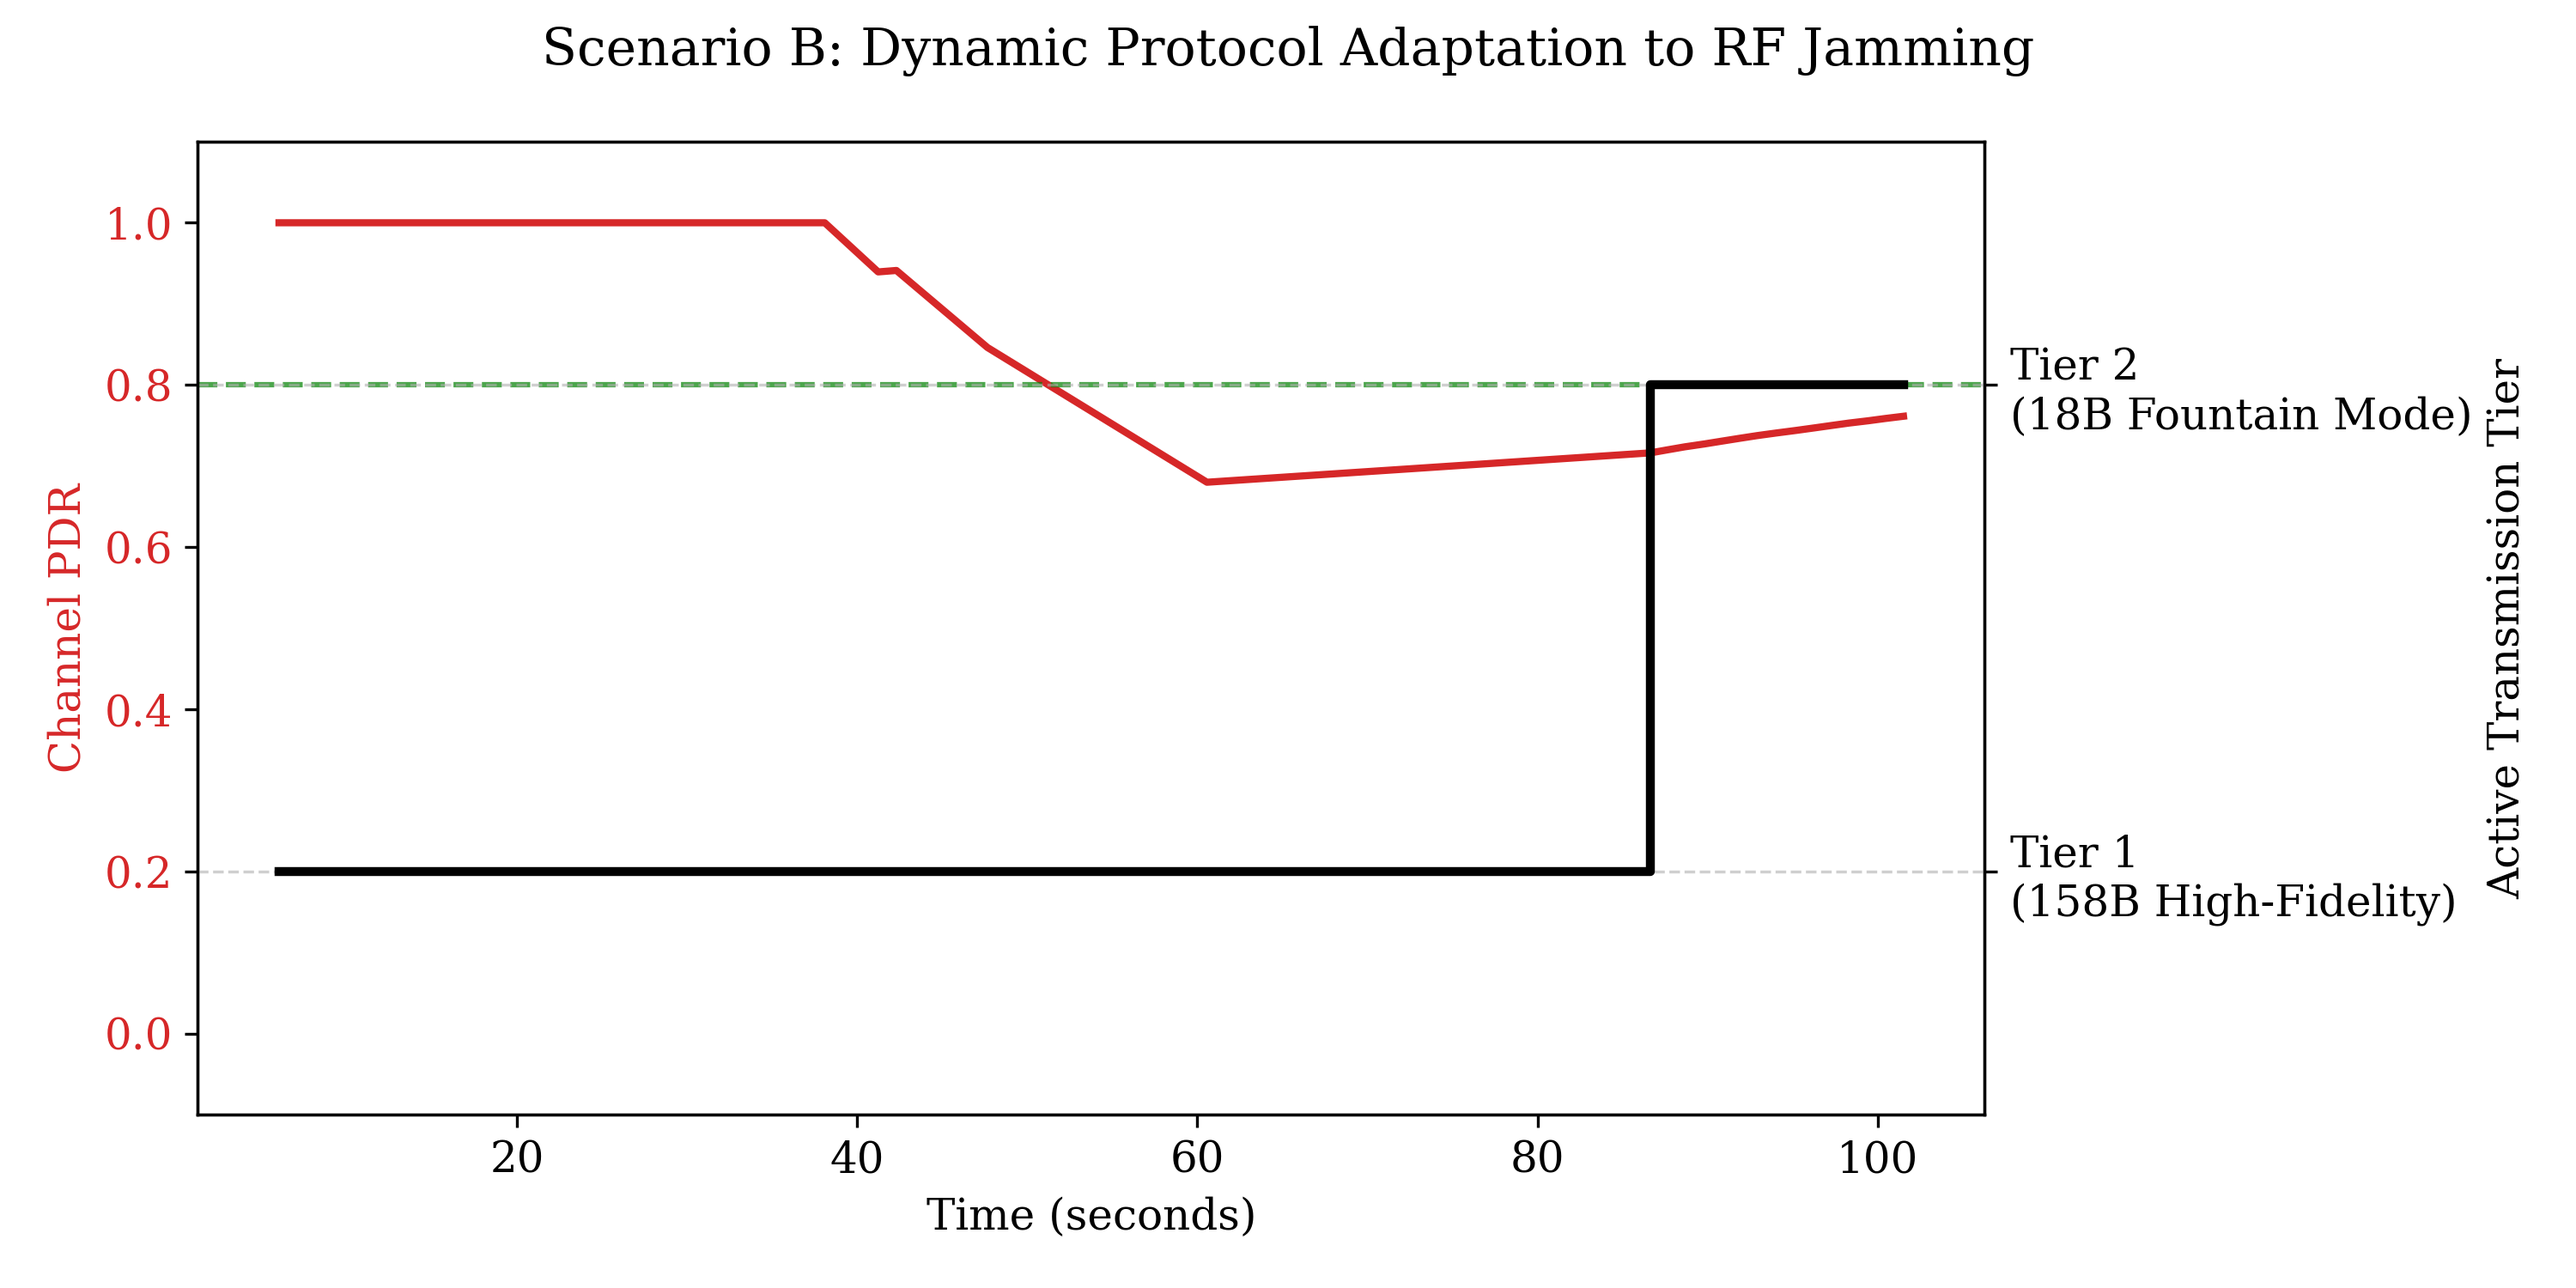
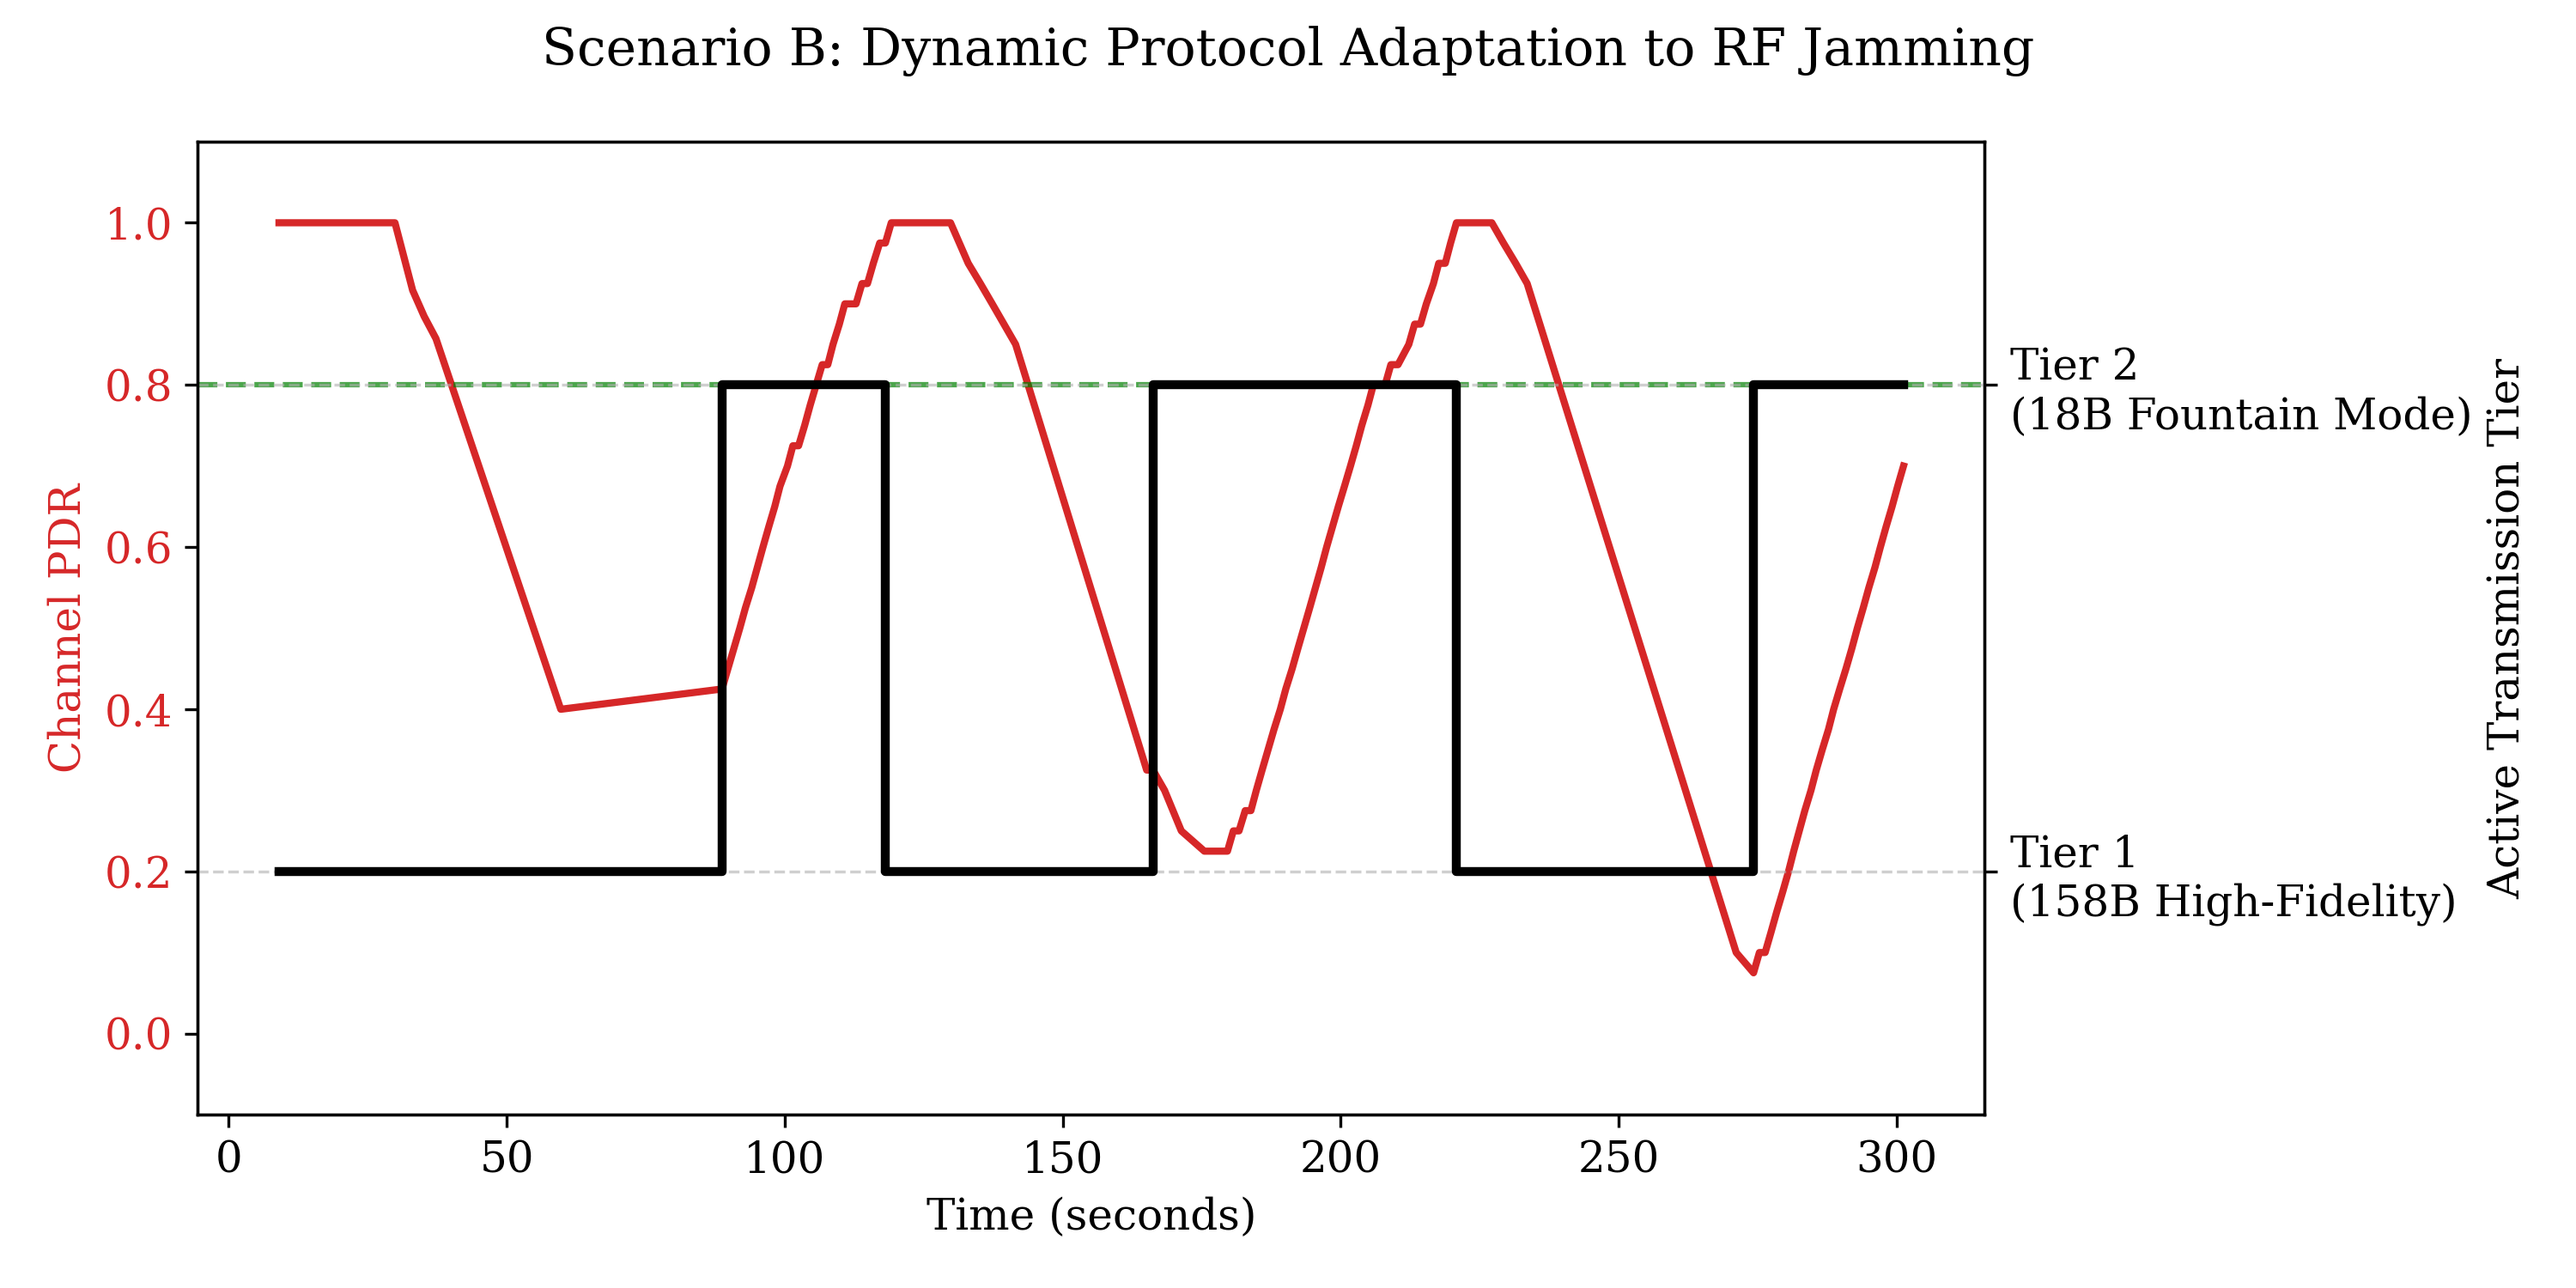
more realistic

diff --git a/anasta_sim.cc b/anasta_sim.cc
@@ -7,6 +7,7 @@
 #include <netinet/in.h>
 #include <unistd.h>
 #include <fcntl.h> 
+#include "ns3/waypoint-mobility-model.h"
 
 using namespace ns3;
 
@@ -108,24 +109,26 @@ private:
             uint8_t* buffer = new uint8_t[pSize];
             packet->CopyData(buffer, pSize);
 
+            // Fetch the base MobilityModel safely
             Ptr<MobilityModel> uavMob = m_uavNode->GetObject<MobilityModel>();
             Ptr<MobilityModel> jammerMob = m_jammerNode->GetObject<MobilityModel>();
             double distance = uavMob->GetDistanceFrom(jammerMob);
-
-            // Jammer activates only when UAV flies within 15 meters of the Base Station coordinate space
-            if (pSize > 14 && distance < 15.0) {
+	    if (pSize > 14 && distance < 30.0) {
+                double dropProbability = 100.0 * (1.0 - (distance / 30.0) * (distance / 30.0));
                 
-                if (rand() % 100 < 80) {
-                    std::cout << "[ns-3 Egest] 💥 JAMMER DESTROYED PACKET! Signal lost at " << distance << "m." << std::endl;
+                // 1. SIMULATE ERASURE
+                if ((rand() % 100) < dropProbability) {
+                    std::cout << "[ns-3] 💥 JAMMER DESTROYED PACKET! (Dist: " << distance << "m | Drop Prob: " << dropProbability << "%)" << std::endl;
                     delete[] buffer;
-                    continue; // Skip forwarding to the Python Twin
+                    continue; 
                 }
                 
+                // 2. SIMULATE CORRUPTION: Packet survived, but payload gets corrupted
                 uint32_t corruptIdx = 14 + (rand() % (pSize - 14));
                 buffer[corruptIdx] ^= 0xFF; 
-                std::cout << "[ns-3 Egest] ⚡ JAMMER CORRUPTED PACKET! Distance: " << distance << "m. Forwarding..." << std::endl;
+                std::cout << "[ns-3] ⚡ JAMMER CORRUPTED PACKET! Distance: " << distance << "m." << std::endl;
             } else {
-                std::cout << "[ns-3 Egest] ✅ Packet passed cleanly. Distance: " << distance << "m." << std::endl;
+                std::cout << "[ns-3] ✅ Packet passed cleanly. Distance: " << distance << "m." << std::endl;
             }
 
             sendto(m_hostSendTwinFd, buffer, pSize, 0, (struct sockaddr*)&m_twinAddr, sizeof(m_twinAddr));
@@ -152,8 +155,6 @@ int main(int argc, char *argv[]) {
     WifiHelper wifi;
     wifi.SetStandard(WIFI_STANDARD_80211n);
     
-    // FIX: Default helper already installs LogDistancePropagationLossModel.
-    // Do not chain AddPropagationLoss a second time to prevent double attenuation.
     YansWifiChannelHelper channel = YansWifiChannelHelper::Default();
     
     YansWifiPhyHelper phy;
@@ -163,23 +164,28 @@ int main(int argc, char *argv[]) {
     NetDeviceContainer devices = wifi.Install(phy, mac, nodes);
 
     MobilityHelper mobility;
-    mobility.SetMobilityModel("ns3::ConstantVelocityMobilityModel");
-    mobility.Install(nodes);
+    
+    // Set Base Station (Node 1) and Jammer (Node 2) to fixed positions at 50m
+    mobility.SetMobilityModel("ns3::ConstantPositionMobilityModel");
+    mobility.Install(nodes.Get(1));
+    mobility.Install(nodes.Get(2));
+    nodes.Get(1)->GetObject<MobilityModel>()->SetPosition(Vector(50.0, 0.0, 0.0));
+    nodes.Get(2)->GetObject<MobilityModel>()->SetPosition(Vector(50.0, 0.0, 0.0));
 
-    // UAV setup: Starts at 0m, flies forward smoothly at 1.0 m/s
-    Ptr<ConstantVelocityMobilityModel> uavMob = nodes.Get(0)->GetObject<ConstantVelocityMobilityModel>();
-    uavMob->SetPosition(Vector(0.0, 0.0, 0.0));
-    uavMob->SetVelocity(Vector(1.0, 0.0, 0.0)); 
+    // Set UAV (Node 0) to a Waypoint Patrol Path (Flies back and forth at 1 m/s)
+    MobilityHelper uavMobHelper;
+    uavMobHelper.SetMobilityModel("ns3::WaypointMobilityModel");
+    uavMobHelper.Install(nodes.Get(0));
+    Ptr<WaypointMobilityModel> uavMob = nodes.Get(0)->GetObject<WaypointMobilityModel>();
 
-    // Base Station setup: Positioned cleanly at 50m
-    Ptr<ConstantVelocityMobilityModel> bsMob = nodes.Get(1)->GetObject<ConstantVelocityMobilityModel>();
-    bsMob->SetPosition(Vector(50.0, 0.0, 0.0));
-    bsMob->SetVelocity(Vector(0.0, 0.0, 0.0));
-
-    // Jammer setup: Positioned at 50m (co-located next to the critical asset target)
-    Ptr<ConstantVelocityMobilityModel> jammerMob = nodes.Get(2)->GetObject<ConstantVelocityMobilityModel>();
-    jammerMob->SetPosition(Vector(50.0, 0.0, 0.0));
-    jammerMob->SetVelocity(Vector(0.0, 0.0, 0.0));
+    // Waypoint 1: Start at 0m (t=0s)
+    uavMob->AddWaypoint(Waypoint(Seconds(0.0), Vector(0.0, 0.0, 0.0)));
+    // Waypoint 2: Fly to 100m (Passes through Jammer at t=50s)
+    uavMob->AddWaypoint(Waypoint(Seconds(100.0), Vector(100.0, 0.0, 0.0)));
+    // Waypoint 3: Turn around and fly back to 0m (Passes Jammer again at t=150s)
+    uavMob->AddWaypoint(Waypoint(Seconds(200.0), Vector(0.0, 0.0, 0.0)));
+    // Waypoint 4: Fly forward to 100m again (Passes Jammer a third time at t=250s)
+    uavMob->AddWaypoint(Waypoint(Seconds(300.0), Vector(100.0, 0.0, 0.0)));
 
     InternetStackHelper stack;
     stack.Install(nodes);
@@ -191,18 +197,17 @@ int main(int argc, char *argv[]) {
     sender->Setup(9000, Ipv4Address("10.1.1.2"), 80);
     nodes.Get(0)->AddApplication(sender);
     sender->SetStartTime(Seconds(0.0));
-    sender->SetStopTime(Seconds(100.0));
+    sender->SetStopTime(Seconds(300.0));
 
     Ptr<AnastaReceiverApp> receiver = CreateObject<AnastaReceiverApp>();
     receiver->Setup(5000, nodes.Get(0), nodes.Get(2));
     nodes.Get(1)->AddApplication(receiver);
     receiver->SetStartTime(Seconds(0.0));
-    receiver->SetStopTime(Seconds(100.0));
+    receiver->SetStopTime(Seconds(300.0));
 
-    std::cout << "🚀 Real-Time Network Simulation Active." << std::endl;
-    Simulator::Stop(Seconds(100.0)); // Fixed human timing window extension
+    std::cout << "🚀 Real-Time Network Simulation Active. Duration: 300s" << std::endl;
+    Simulator::Stop(Seconds(300.0)); 
     Simulator::Run();
     Simulator::Destroy();
     return 0;
 }
-

diff --git a/digital_twin.py b/digital_twin.py
@@ -6,7 +6,7 @@ import numpy as np
 from Crypto.Cipher import AES
 from Crypto.Util import Counter
 from filterpy.kalman import KalmanFilter
-
+from collections import deque
 class DigitalTwinServer:
     def __init__(self, listen_ip="127.0.0.1", listen_port=5000, feedback_ip="127.0.0.1", feedback_port=9001, master_key=b'\x00'*16, salt=b'\x01'*4):
         self.rx_sock = socket.socket(socket.AF_INET, socket.SOCK_DGRAM)
@@ -21,6 +21,9 @@ class DigitalTwinServer:
         # PDR Measurement Parameters
         self.received_packets = 0
         self.expected_packets = 0
+        self.window_size = 40 
+        self.pdr_window = deque(maxlen=self.window_size)
+
         self.last_seq = -1
         
         # Enrollment System Configuration
@@ -79,17 +82,20 @@ class DigitalTwinServer:
         
         self.received_packets += 1
         if self.last_seq == -1:
-            self.expected_packets = 1
+            self.pdr_window.append(1)
         else:
             diff = seq - self.last_seq
             if diff > 0:
-                self.expected_packets += diff
-            else:
-                self.expected_packets += 1
-        self.last_seq = seq
+                missed = min(diff - 1, self.window_size)
+                for _ in range(missed):
+                    self.pdr_window.append(0)
+                self.pdr_window.append(1)
+            elif diff <= 0:
+                pass
+        self.last_seq = max(self.last_seq, seq)
         
         # Calculate Packet Delivery Ratio (PDR)
-        pdr = self.received_packets / self.expected_packets
+        pdr = sum(self.pdr_window) / max(1, len(self.pdr_window))
         self.tx_sock.sendto(struct.pack(">f", pdr), self.feedback_address)
         print(f"\n[Twin Engine] Seq: {seq} | Tier: {tier_id} | Channel PDR: {pdr:.2f}")
 
